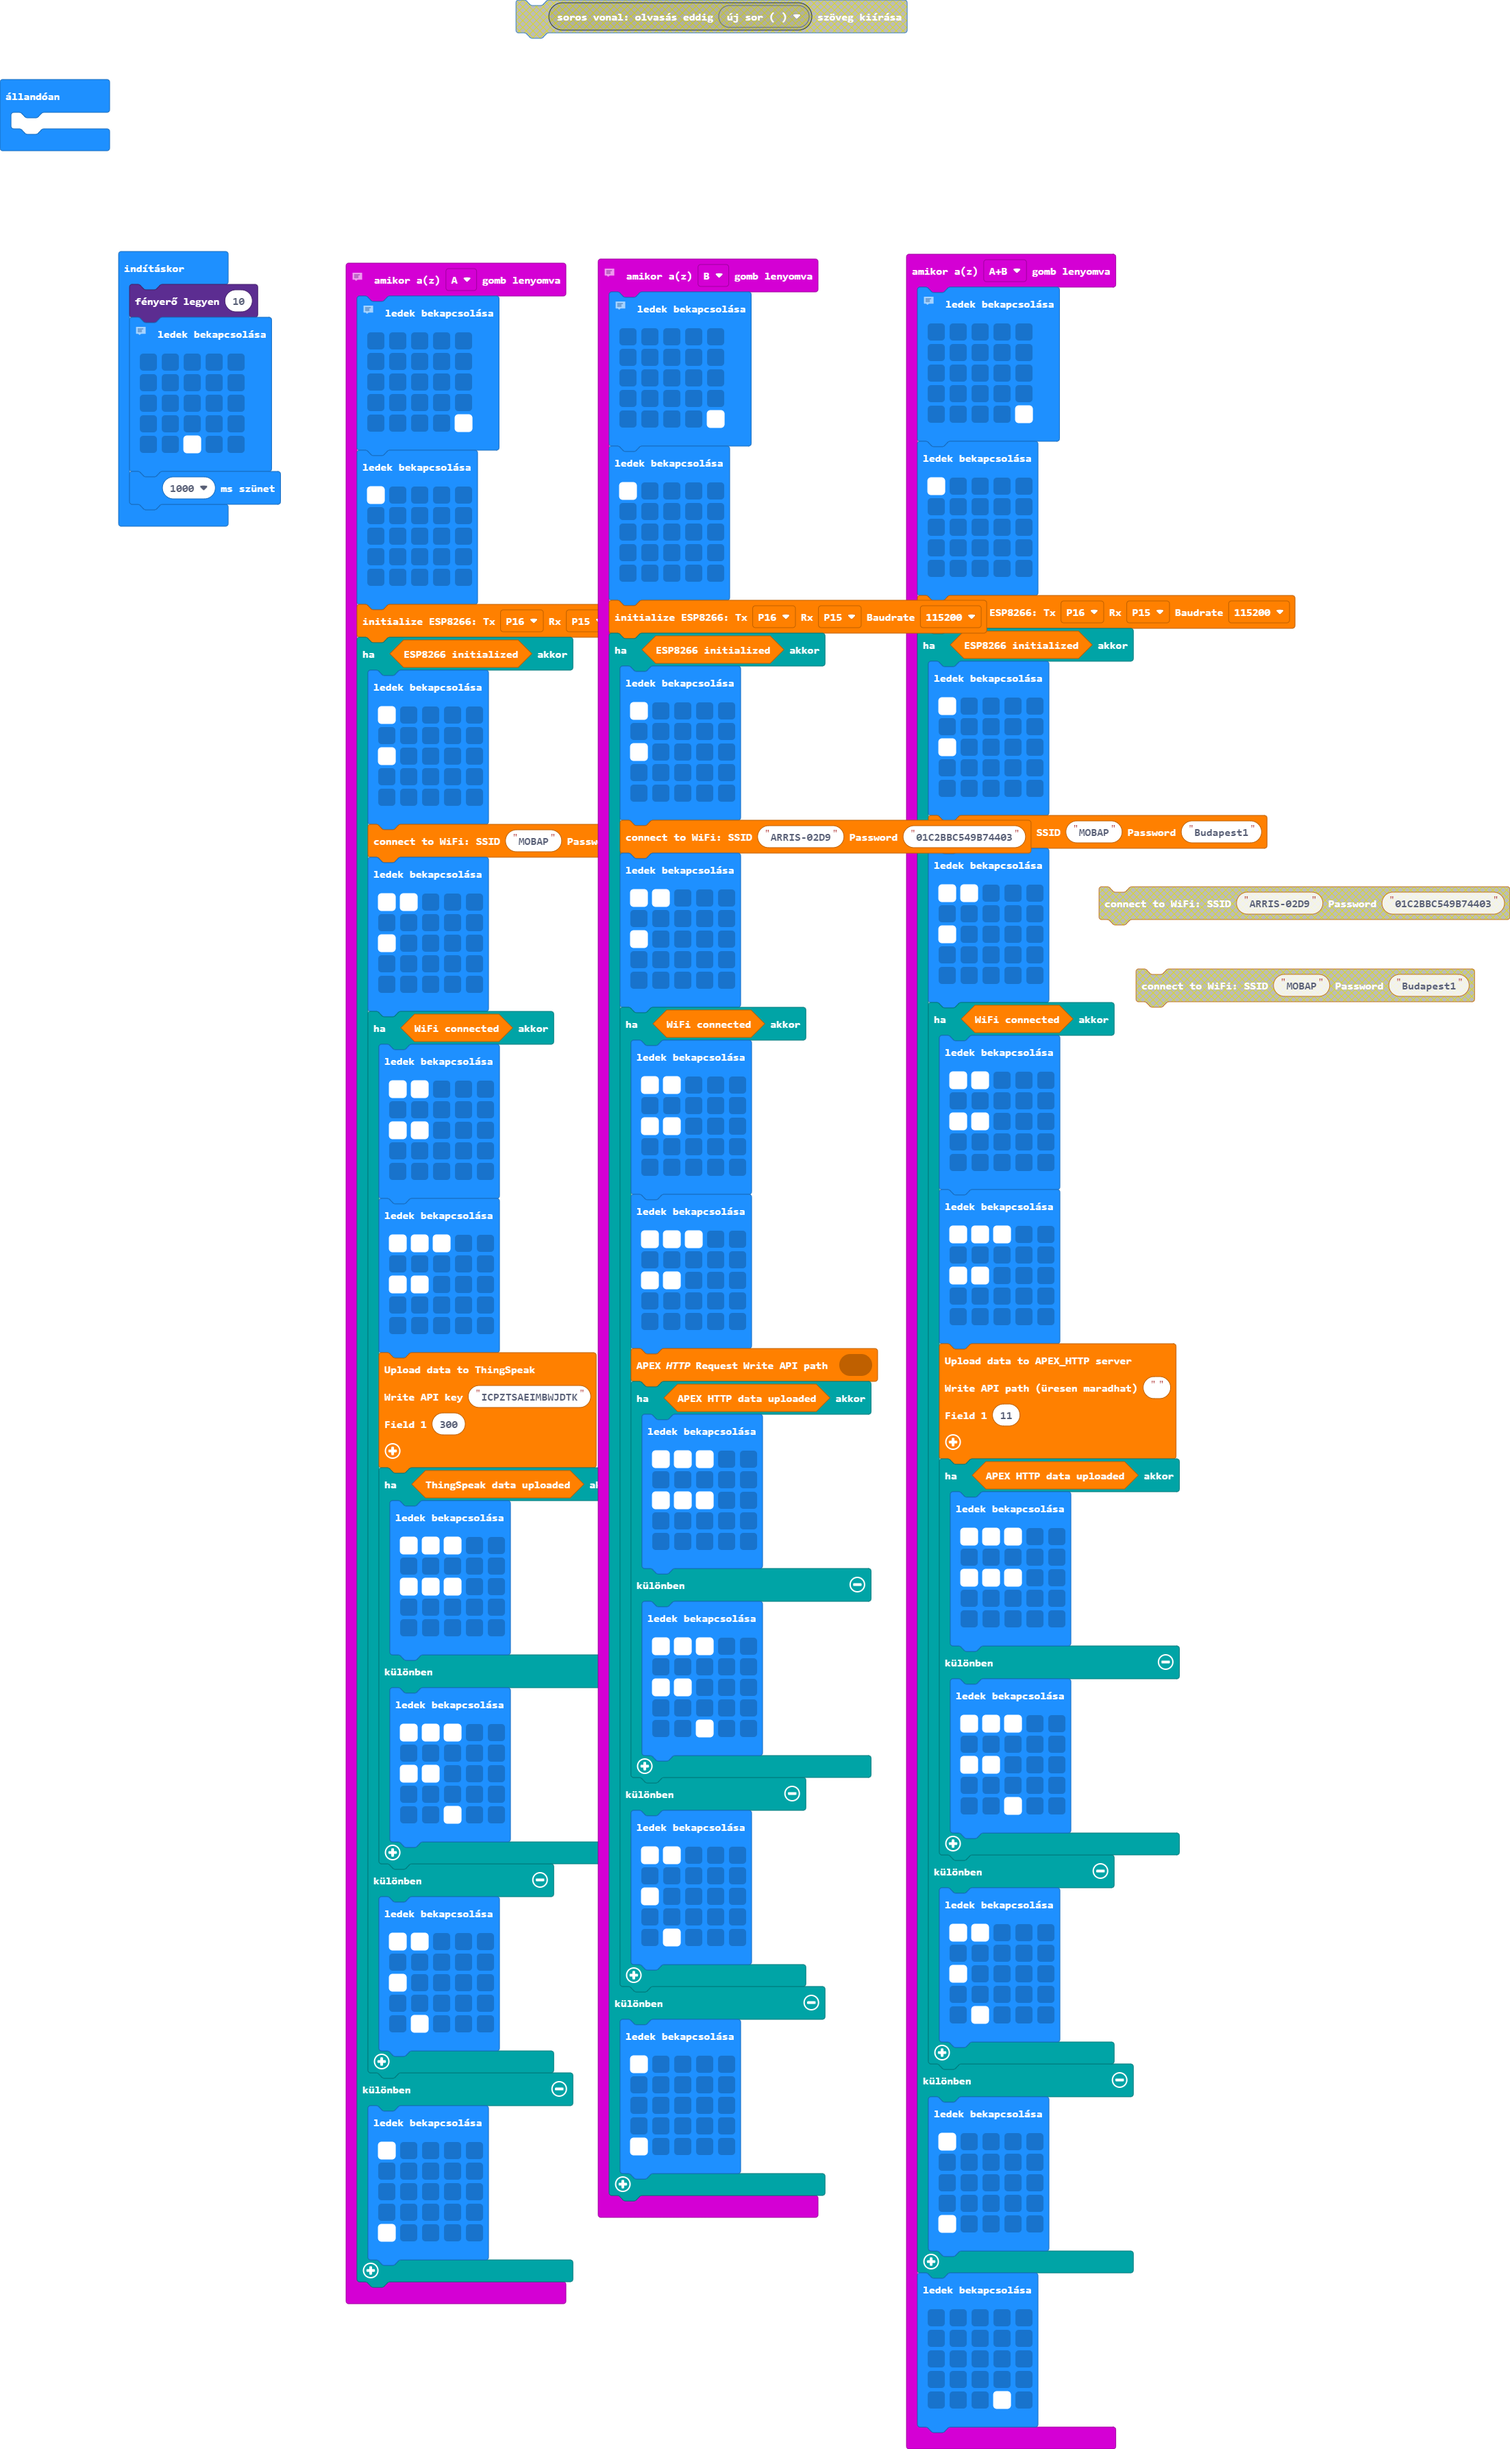
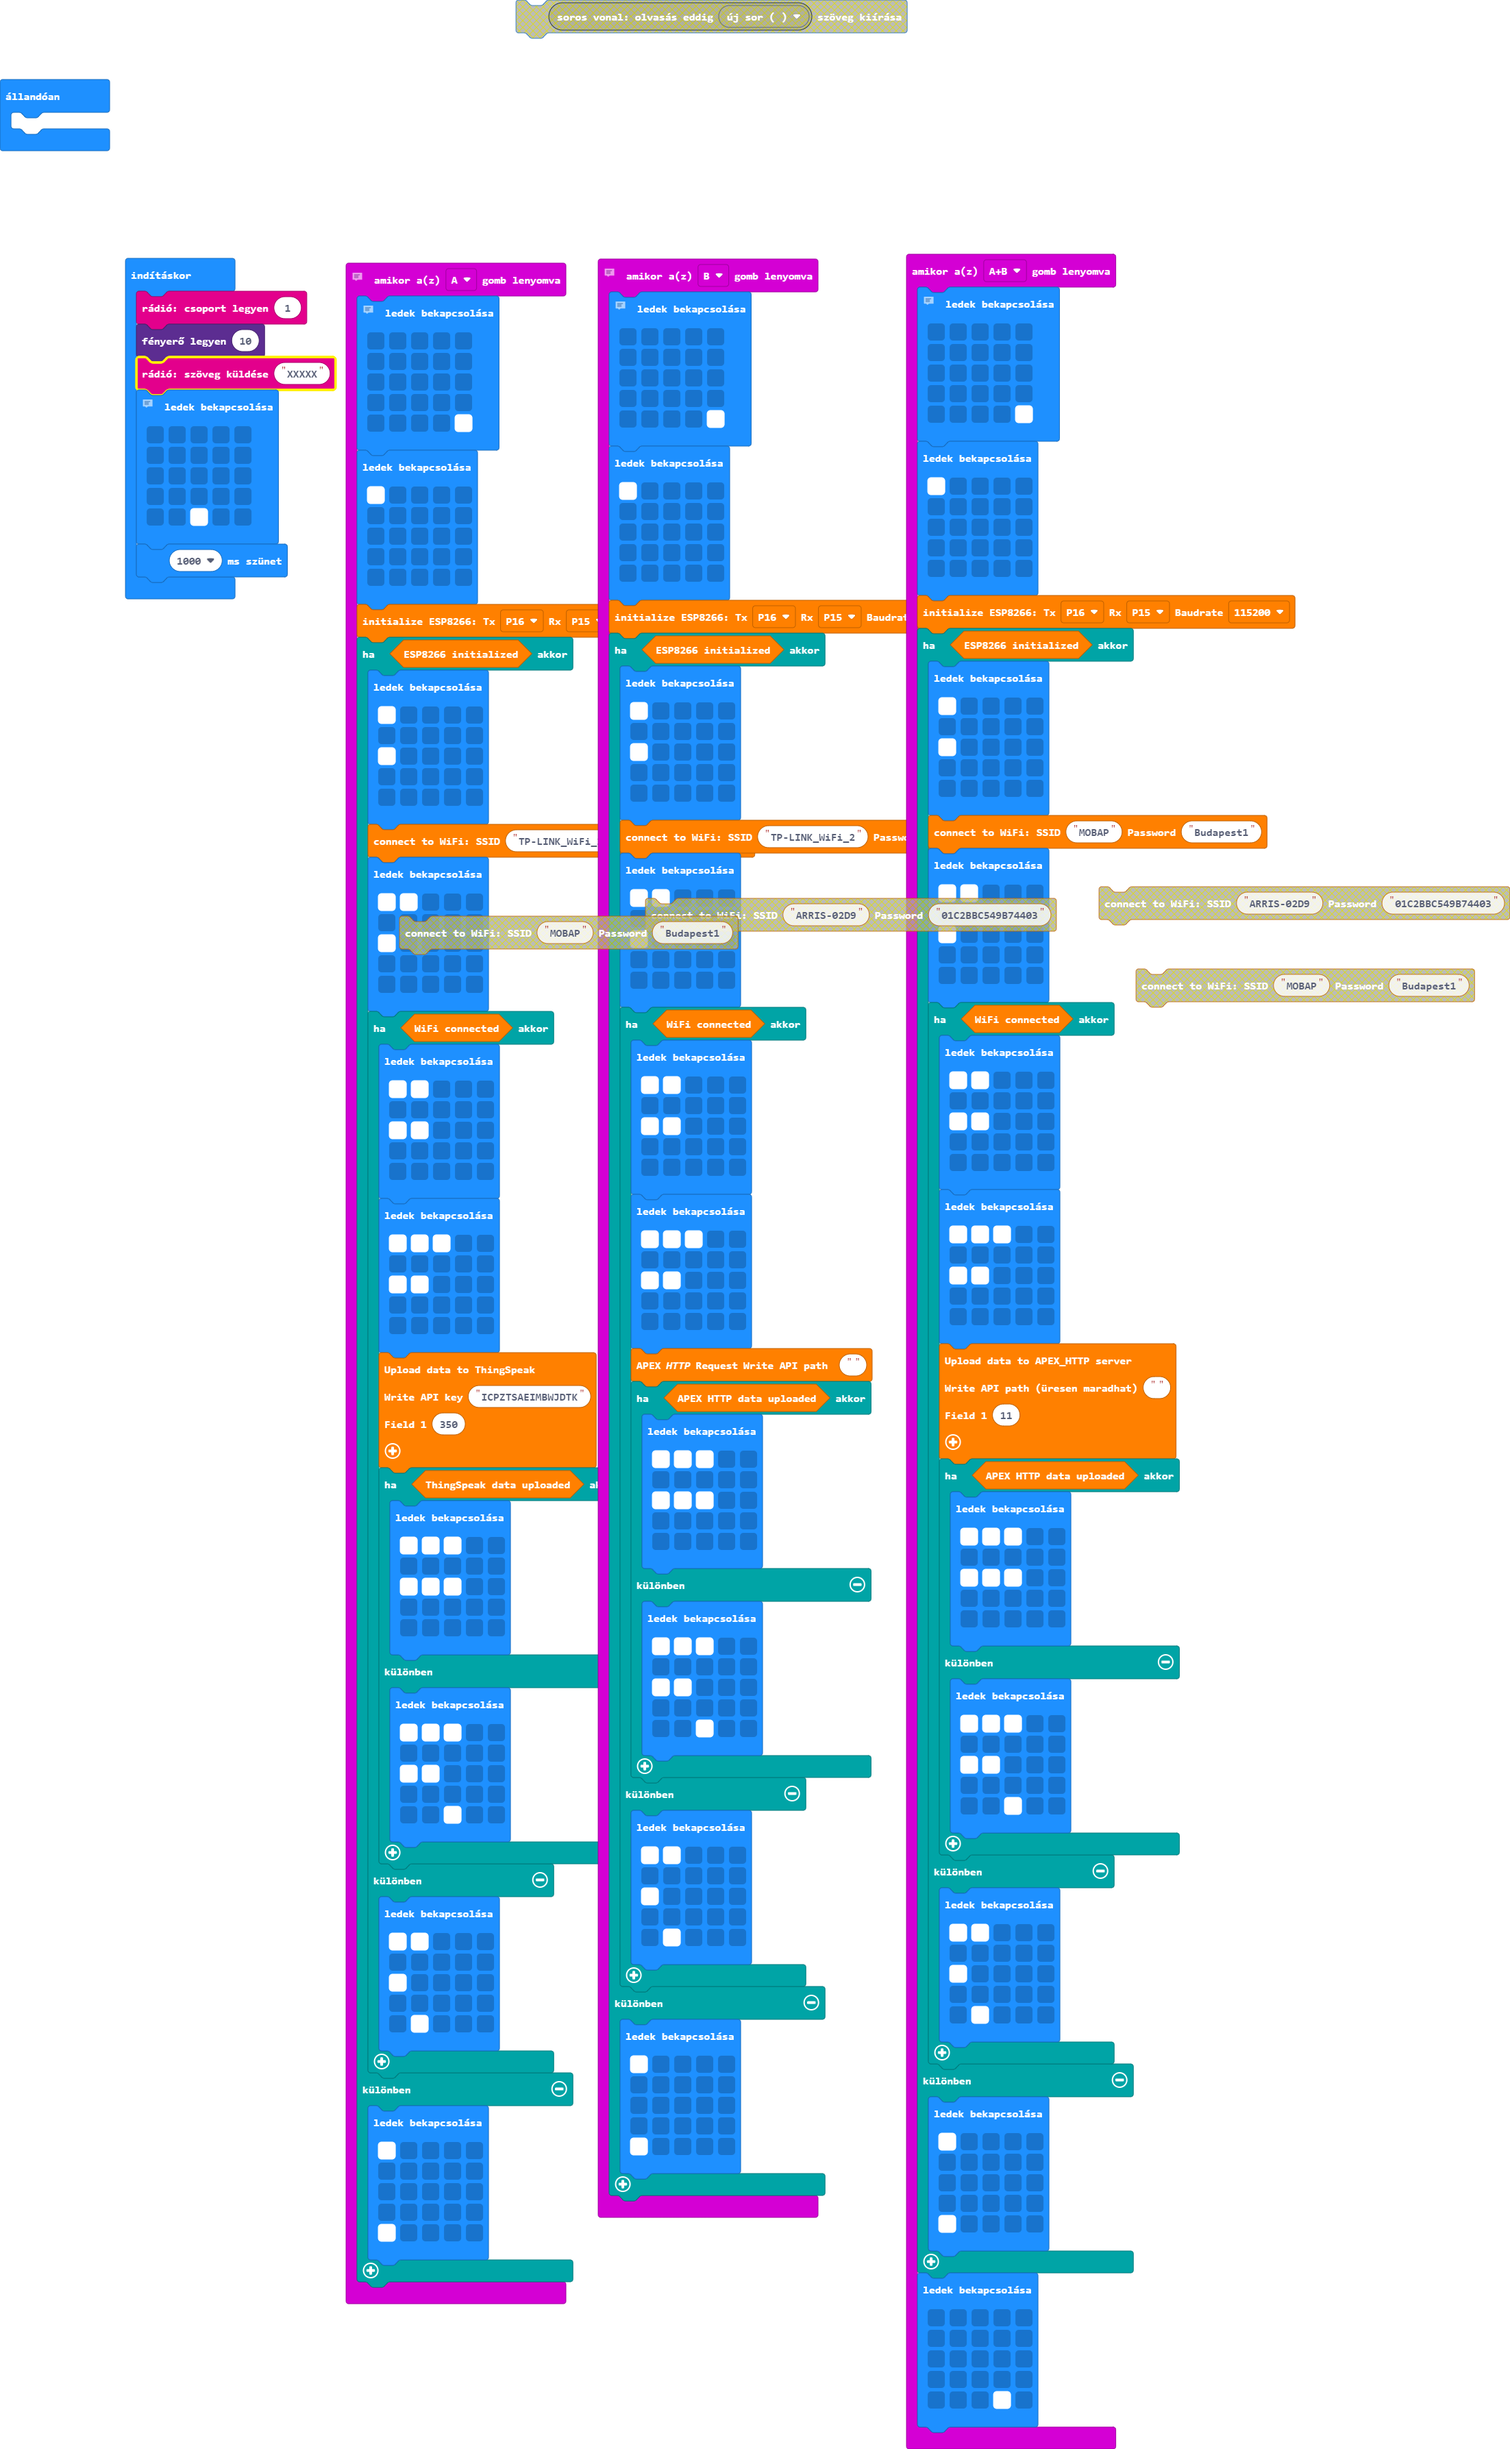
main.blocks, main.ts, pxt-esp8266-main-EJ.ts, pxt-esp8266-thingspeak-APEX-HTTP.ts frissítése

diff --git a/pxt-esp8266-thingspeak-APEX-HTTP.ts b/pxt-esp8266-thingspeak-APEX-HTTP.ts
@@ -8,7 +8,7 @@
  *******************************************************************************/
 
 // ThingSpeak API url.
-const APEX_SERVER_OR_IP = "192.168.0.4"
+const APEX_SERVER_OR_IP = "192.168.1.101"
 
 namespace esp8266_EJ {
     // Flag to indicate whether the data was uploaded to ThingSpeak successfully.
@@ -79,7 +79,7 @@ namespace esp8266_EJ {
         if (field2 != null) data += "&field7=" + field7
         if (field2 != null) data += "&field8=" + field8*/
         //let data = "GET /ords/f?p=100:6::APPLICATION_PROCESS=LOG_DATA_01:::P6_FIELD1:-11.1"
-        let data = "GET http://192.168.0.4:8080/ords/f?p=100:6::APPLICATION_PROCESS=LOG_DATA_01:::P6_FIELD1:11.1"
+        let data = "GET http://192.168.1.101:8080/ords/f?p=100:6::APPLICATION_PROCESS=LOG_DATA_01:::P6_FIELD1:11.1"
         // Send the data.
         sendCommand("AT+CIPSEND=" + (data.length + 2))
         sendCommand(data)
@@ -125,10 +125,11 @@ namespace esp8266_EJ {
        //if (sendCommand("AT+HTTPCLIENT=2,3,\"https://api.thingspeak.com/update?api_key=ICPZTSAEIMBWJDTK&field1=300\",\"\",\"\",2", null, 10000) == false) { null }
         //AT + HTTPGETSIZE="http://www.baidu.com/img/bdlogo.gif"
        if (sendCommand("AT+HTTPGETSIZE\"https://api.thingspeak.com/update?api_key=ICPZTSAEIMBWJDTK&field1=300\",\"\",\"\",1", null, 10000) == false) { null }
-        if (sendCommand("AT+PING=\"44.198.242.240\"", null, 10000) == false) { null }
-  basic.pause(1000)
-               basic.showString(getResponse2(100))
-        basic.showString(getResponse2(100))
+    //    if (sendCommand("AT+PING=\"44.198.242.240\"", null, 10000) == false) { null }
+//  basic.pause(1000)
+         //      basic.showString(getResponse2(100))
+       // basic.showString(getResponse2(100))
+        radio.sendString("getResponse2(100)")
                // let data = "GET http://192.168.0.4:8080/ords/f?p=100:6::APPLICATION_PROCESS=LOG_DATA_01:::P6_FIELD1:11.1"
         // Send the data.
        

diff --git a/main.ts b/main.ts
@@ -24,7 +24,7 @@ input.onButtonPressed(Button.A, function () {
             . . . . .
             . . . . .
             `)
-        esp8266_EJ.connectWiFi("MOBAP", "Budapest1")
+        esp8266_EJ.connectWiFi("TP-LINK_WiFi_2", "Kajdacs1")
         basic.showLeds(`
             # # . . .
             . . . . .
@@ -49,7 +49,7 @@ input.onButtonPressed(Button.A, function () {
                 `)
             esp8266_EJ.uploadThingspeak(
             "ICPZTSAEIMBWJDTK",
-            300
+            350
             )
             if (esp8266_EJ.isThingspeakUploaded()) {
                 basic.showLeds(`
@@ -209,7 +209,7 @@ input.onButtonPressed(Button.B, function () {
             . . . . .
             . . . . .
             `)
-        esp8266_EJ.connectWiFi("ARRIS-02D9", "01C2BBC549B74403")
+        esp8266_EJ.connectWiFi("TP-LINK_WiFi_2", "Kajdacs1")
         basic.showLeds(`
             # # . . .
             . . . . .
@@ -269,7 +269,9 @@ input.onButtonPressed(Button.B, function () {
             `)
     }
 })
+radio.setGroup(1)
 led.setBrightness(10)
+radio.sendString("XXXXX")
 // APEX_HTTP
 // Grove ESP USB power EJ01 v1.01
 basic.showLeds(`

diff --git a/pxt-esp8266-main-EJ.ts b/pxt-esp8266-main-EJ.ts
@@ -246,7 +246,7 @@ namespace esp8266_EJ {
         if (sendCommand("AT+RESTORE", "ready", 5000) == false) return
 
         // Turn off echo.
-        if (sendCommand("ATE0", "OK") == false) return
+        if (sendCommand("ATE1", "OK") == false) return
 
         // Initialized successfully.
         // Set the flag.
